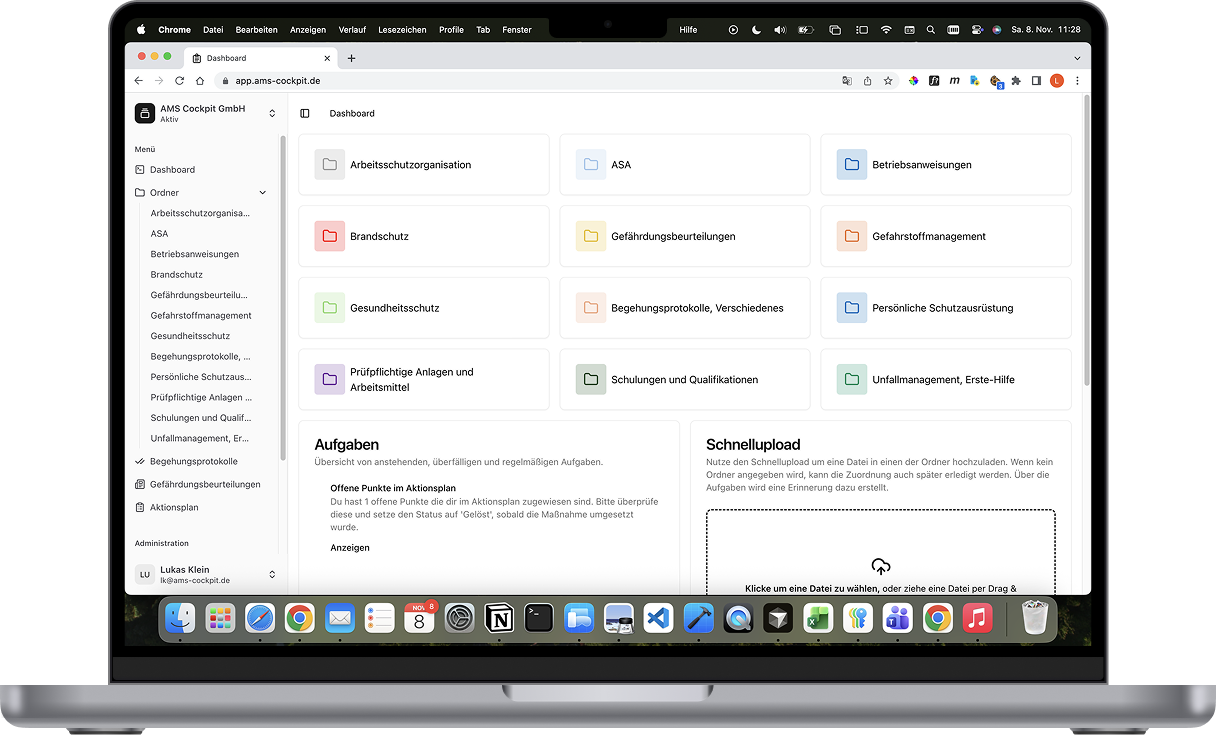
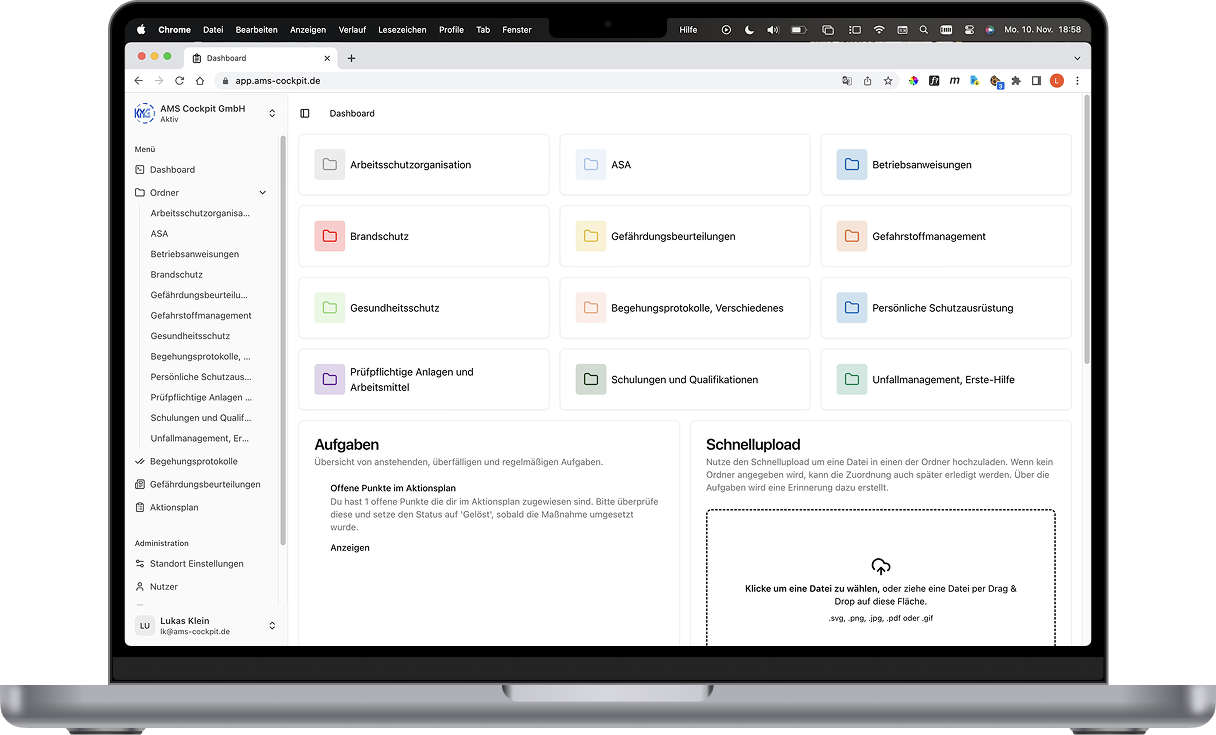
kimmi changes

diff --git a/components/footer.tsx b/components/footer.tsx
@@ -1,5 +1,6 @@
 "use client";
 import { useRouter } from "next/navigation";
+import Image from "next/image";
 import { Mail, Phone, MapPin } from "lucide-react";
 import { ContactForm } from "./contact-form";
 import { CalendlyWidget } from "./calendly-widget";
@@ -24,7 +25,7 @@ export function Footer() {
       <div className="absolute inset-0 bg-gradient-to-br from-emerald-900/20 via-slate-950 to-black" />
       <div className="absolute top-0 left-1/2 -z-10 h-[480px] w-[480px] -translate-x-1/2 rounded-full bg-emerald-500/10 blur-3xl" />
       <div className="absolute bottom-0 right-0 -z-10 h-96 w-96 translate-x-1/3 bg-emerald-400/5 blur-3xl" />
-      
+
       <div className="container mx-auto px-4 relative z-10">
         {/* Contact Section */}
         <div id="contact" className="mb-16">
@@ -55,14 +56,19 @@ export function Footer() {
           {/* Company Info */}
           <div>
             <div
-              className="border-2 border-emerald-200/40 bg-emerald-400/10 px-4 py-2 inline-block mb-6 cursor-pointer hover:bg-emerald-400/20 hover:border-emerald-200/60 transition-all duration-300 rounded-lg backdrop-blur-sm"
+              className="inline-block mb-6 cursor-pointer hover:opacity-80 transition-opacity duration-300"
               onClick={navigateToMainPage}
             >
-              <span className="text-xl font-bold tracking-wider text-white">AMS</span>
+              <Image
+                src="/logo.png"
+                alt="AMS Logo"
+                width={120}
+                height={40}
+                className="h-10 w-auto"
+              />
             </div>
             <p className="text-emerald-50/80 mb-6 leading-relaxed">
-              Die Software-Lösung für digitalen Arbeitsschutz und
-              Compliance-Management.
+              Die Software-Lösung für digitalen Arbeitsschutz
             </p>
           </div>
 
@@ -111,11 +117,15 @@ export function Footer() {
             <div className="space-y-4 text-emerald-50/80">
               <div className="flex items-center gap-3">
                 <Mail className="h-5 w-5 text-emerald-200/80" />
-                <span className="hover:text-emerald-200 transition-colors">info@ams-cockpit.de</span>
+                <span className="hover:text-emerald-200 transition-colors">
+                  info@ams-cockpit.de
+                </span>
               </div>
               <div className="flex items-center gap-3">
                 <Phone className="h-5 w-5 text-emerald-200/80" />
-                <span className="hover:text-emerald-200 transition-colors">+49 2359 2967311</span>
+                <span className="hover:text-emerald-200 transition-colors">
+                  +49 2359 2967311
+                </span>
               </div>
               <div className="flex items-center gap-3">
                 <MapPin className="h-5 w-5 text-emerald-200/80" />
@@ -133,7 +143,10 @@ export function Footer() {
         <div className="border-t border-white/10 pt-8 flex flex-col md:flex-row justify-between items-center text-emerald-50/60 text-sm">
           <p>&copy; 2025 AMS Cockpit GmbH. Alle Rechte vorbehalten.</p>
           <div className="flex space-x-6 mt-4 md:mt-0">
-            <a href="/impressum" className="hover:text-emerald-200 transition-colors">
+            <a
+              href="/impressum"
+              className="hover:text-emerald-200 transition-colors"
+            >
               Impressum
             </a>
             <a

diff --git a/components/hero-section.tsx b/components/hero-section.tsx
@@ -3,27 +3,20 @@
 import { useEffect, useRef, useState } from "react";
 import { Button } from "@/components/ui/button";
 import { Card, CardContent } from "@/components/ui/card";
-import {
-  ArrowRight,
-  Leaf,
-  ShieldCheck,
-  Smartphone,
-  Workflow,
-} from "lucide-react";
+import { ArrowRight, ShieldCheck, Smartphone, Workflow } from "lucide-react";
 import { AnimatePresence, motion, useReducedMotion } from "framer-motion";
 
 const featureCards = [
   {
-    title: "Mobile Inspektionen",
+    title: "Mobile Begehungen",
     description:
-      "Gefährdungsbeurteilungen direkt vor Ort durchführen und live synchronisieren.",
+      "Gefährdungsbeurteilungen mit dem Smartphone direkt vor Ort durchführen und live synchronisieren.",
     icon: Smartphone,
     accent: "On-Site",
   },
   {
-    title: "Nachhaltige Compliance",
-    description:
-      "Automatisierte Updates und rechtssichere Dokumentation ohne Medienbrüche.",
+    title: "Software-Compliance",
+    description: "Automatisierte Updates und Dokumentation ohne Medienbrüche.",
     icon: ShieldCheck,
     accent: "Compliance",
   },
@@ -184,10 +177,10 @@ export function HeroSection() {
             custom={2}
             className="max-w-xl text-base text-slate-100/90 md:text-lg"
           >
-            Wir verbinden smarte Softwaremodule mit pragmatischer Beratung,
-            damit Arbeitssicherheit in Produktion, Logistik und Verwaltung
-            lebendig bleibt. Von der mobilen Erfassung bis zur KI-gestützten
-            Auswertung entsteht ein vernetztes Sicherheitsökosystem.
+            Wir verbinden smarte Softwaremodule mit Praxiswissen, damit
+            Arbeitssicherheit in Produktion, Logistik und Verwaltung lebendig
+            bleibt. Von der mobilen Erfassung bis zur KI-gestützten Auswertung
+            entsteht ein vernetztes Arbeitssicherheits-System.
           </motion.p>
 
           <motion.div
@@ -206,17 +199,6 @@ export function HeroSection() {
             >
               Module entdecken
             </Button>
-          </motion.div>
-
-          <motion.div
-            variants={textReveal}
-            custom={4}
-            className="flex items-center gap-3 text-sm text-emerald-100/80"
-          >
-            <Leaf className="h-5 w-5" />
-            <span>
-              CO₂-sensible Infrastruktur und fairer Betrieb aus Deutschland
-            </span>
           </motion.div>
         </div>
 

diff --git a/components/ai-section.tsx b/components/ai-section.tsx
@@ -42,7 +42,7 @@ export function AISection() {
         "Intelligente Schutzmaßnahmen",
       ],
       example:
-        "Foto einer Lagersituation → KI erkennt Lithium-Batterie-Gefahren und schlägt spezifische Schutzmaßnahmen vor",
+        "Foto einer Lagersituation → KI erkennt einen zugestellten Feuerlöscher",
       accent: "Gefährdungsbeurteilungen",
     },
     {
@@ -56,7 +56,7 @@ export function AISection() {
         "Quellenangabe direkt im Dokument ohne langes Suchen",
       ],
       example:
-        "Fragen Sie einfach: 'Welche Schutzmaßnahmen sind für Lithium-Batterien erforderlich?' → Die KI durchsucht automatisch die relevanten Sicherheitsdatenblätter und gibt Ihnen die Antwort",
+        "Fragen Sie einfach: 'Welchen Schutzhandschuh muss ich beim Umgang mit dem Gefahrstoff tragen?' → Die KI antwortet",
       accent: "Gefahrstoffmanagement",
     },
   ];
@@ -112,9 +112,9 @@ export function AISection() {
             </h2>
           </div>
           <p className="mt-4 text-base text-slate-200/80 md:text-lg">
-            Nutzen Sie die Kraft künstlicher Intelligenz, um GBUs und Begehungen
-            effizienter und präziser durchzuführen. Unsere KI-Features
-            vereinfachen Ihre Arbeitsschutz-Prozesse erheblich.
+            Nutzen Sie künstlicher Intelligenz, um Gefährdungsbeurteilungen und
+            Begehungen effizienter und präziser durchzuführen. Unsere
+            KI-Features vereinfachen Ihre Arbeitsschutz-Prozesse erheblich.
           </p>
         </motion.div>
 
@@ -239,9 +239,10 @@ export function AISection() {
                 Revolutionieren Sie Ihren Arbeitsschutz mit KI
               </h3>
               <p className="text-emerald-50 mb-8 max-w-3xl mx-auto text-lg leading-relaxed">
-                Sparen Sie wertvolle Zeit bei der Durchführung von GBUs und
-                Begehungen. Unsere KI unterstützt Sie bei der Identifikation von
-                Risiken und schlägt automatisch passende Schutzmaßnahmen vor.
+                Sparen Sie wertvolle Zeit bei der Durchführung von
+                Gefährdungsbeurteilungen und Begehungen. Unsere KI unterstützt
+                Sie bei der Identifikation von Risiken und schlägt automatisch
+                passende Schutzmaßnahmen vor.
               </p>
               <AIFeaturesButton />
             </div>

diff --git a/components/solutions-section.tsx b/components/solutions-section.tsx
@@ -139,8 +139,9 @@ export function SolutionsSection() {
             Integration in bestehende Infrastruktur
           </h2>
           <p className="mt-4 text-base text-slate-200/80 md:text-lg">
-            AMS integriert sich nahtlos in Ihre bestehende IT-Infrastruktur und
-            bietet flexible Lösungen für größere Unternehmen.
+            Das AMS Cockpit integriert sich nahtlos in Ihre bestehende
+            IT-Infrastruktur und bietet flexible Lösungen für größere
+            Unternehmen.
           </p>
         </motion.div>
 
@@ -180,9 +181,15 @@ export function SolutionsSection() {
                     </div>
                   )}
 
-                  <CardHeader className={`flex gap-4 ${isLast ? "flex-row items-center" : "flex-col"}`}>
+                  <CardHeader
+                    className={`flex gap-4 ${
+                      isLast ? "flex-row items-center" : "flex-col"
+                    }`}
+                  >
                     <motion.div
-                      className={`flex h-12 w-12 items-center justify-center rounded-2xl border border-emerald-100/40 bg-emerald-400/30 ${isLast ? "shrink-0" : ""}`}
+                      className={`flex h-12 w-12 items-center justify-center rounded-2xl border border-emerald-100/40 bg-emerald-400/30 ${
+                        isLast ? "shrink-0" : ""
+                      }`}
                       animate={
                         shouldReduceMotion
                           ? undefined
@@ -206,7 +213,11 @@ export function SolutionsSection() {
                     </motion.div>
 
                     <div className="flex flex-col gap-2 flex-1">
-                      <CardTitle className={`font-semibold text-white ${isLast ? "text-2xl md:text-3xl" : "text-xl"}`}>
+                      <CardTitle
+                        className={`font-semibold text-white ${
+                          isLast ? "text-2xl md:text-3xl" : "text-xl"
+                        }`}
+                      >
                         {integration.title}
                       </CardTitle>
                       {isLast && (

diff --git a/components/header.tsx b/components/header.tsx
@@ -2,6 +2,7 @@
 
 import { useEffect, useState } from "react";
 import { useRouter } from "next/navigation";
+import Image from "next/image";
 import { Button } from "@/components/ui/button";
 import { Menu, X, Globe } from "lucide-react";
 import {
@@ -98,31 +99,15 @@ export function Header() {
           <div className="relative flex items-center gap-3">
             <button
               onClick={navigateToMainPage}
-              className="group relative flex items-center gap-3 rounded-xl border border-white/15 bg-white/10 px-4 py-2 font-semibold uppercase tracking-[0.28em] text-white transition hover:bg-white/20"
+              className="group relative flex items-center transition hover:opacity-80"
             >
-              <span className="text-sm">AMS</span>
-              <span className="hidden text-xs text-emerald-200/80 sm:inline">
-                Cockpit
-              </span>
-              <motion.span
-                aria-hidden="true"
-                className="absolute inset-0 rounded-xl border border-white/25 opacity-0 transition group-hover:opacity-100"
-                animate={
-                  shouldReduceMotion
-                    ? undefined
-                    : {
-                        rotate: [0, 0.8, -0.8, 0],
-                      }
-                }
-                transition={
-                  shouldReduceMotion
-                    ? undefined
-                    : {
-                        repeat: Infinity,
-                        repeatType: "mirror",
-                        duration: 6,
-                      }
-                }
+              <Image
+                src="/logo.png"
+                alt="AMS Logo"
+                width={120}
+                height={40}
+                className="h-10 w-auto"
+                priority
               />
             </button>
           </div>

diff --git a/components/features-section.tsx b/components/features-section.tsx
@@ -36,12 +36,12 @@ const features = [
     icon: FileText,
     title: "Aktionsplan",
     description:
-      "Teamübergreifende Aktionspläne mit Prioritäten, Deadlines und Live-Status für alle Beteiligten.",
+      "Teamübergreifende Aktionspläne mit Prioritäten, Deadlines und Verantwortlichkeiten für alle Beteiligten.",
     accent: "Koordination",
   },
   {
     icon: BarChart3,
-    title: "Reporting & Analytics",
+    title: "Statistik und Kennzahlen",
     description:
       "Dashboards und Trendanalysen, die Fortschritt, Risiken und Compliance auf einen Blick sichtbar machen.",
     accent: "Insights",
@@ -51,15 +51,15 @@ const features = [
     title: "Gefahrstoffmanagement",
     description:
       "Gefahrstoffe revisionssicher verwalten, Sicherheitsdatenblätter synchronisieren und Freigaben steuern.",
-    accent: "Labor",
+    accent: "Dokumentation",
     comingSoon: true,
   },
   {
     icon: AlertTriangle,
     title: "Unfall Management",
     description:
-      "Unfälle und Beinahe-Vorfälle minutenschnell erfassen, analysieren und mit Präventionsmaßnahmen verknüpfen.",
-    accent: "Safety",
+      "Arbeitsunfälle und Beinahe-Vorfälle minutenschnell erfassen, analysieren und mit Präventionsmaßnahmen verknüpfen.",
+    accent: "Prävention",
     comingSoon: true,
   },
 ];
@@ -112,7 +112,7 @@ export function ModuleSection() {
             Module
           </span>
           <h2 className="mt-6 text-3xl font-semibold leading-tight md:text-4xl">
-            Das modulare Sicherheitsökosystem für Ihre Branche
+            Die modulare Arbeitssicherheits-Struktur für Ihre Branche
           </h2>
           <p className="mt-4 text-base text-slate-200/80 md:text-lg">
             Jedes Modul lässt sich flexibel kombinieren, sodass Sie genau den

diff --git a/components/preview-app-section.tsx b/components/preview-app-section.tsx
@@ -121,16 +121,15 @@ export function PreviewAppSection() {
             variants={itemVariants}
             className="text-3xl font-semibold leading-tight md:text-4xl"
           >
-            Eine App, die Arbeitssicherheit erlebbar macht
+            Eine App, die Arbeitssicherheit einfach und digital macht
           </motion.h2>
 
           <motion.p
             variants={itemVariants}
             className="max-w-xl text-base text-slate-200/85 md:text-lg"
           >
-            Dashboards, Checklisten und KI-Support an einem Ort. Mit der AMS
-            Industrie App steuern Sie Prüfungen, Kommunikation und Dokumente
-            unterwegs, online wie offline.
+            Gefährdungsbeurteilungen, Begehungsprotokolle und Aktionspläne mit
+            dem Smartphone erfassen und synchronisieren.
           </motion.p>
 
           <motion.div variants={itemVariants} className="space-y-6">

diff --git a/components/preview-web-section.tsx b/components/preview-web-section.tsx
@@ -22,11 +22,11 @@ const featureItems = [
     badge: "Organisation",
   },
   {
-    title: "Team-Kollaboration & Verwaltung",
+    title: "Zusammenarbeit & Verwaltung",
     description:
       "Nutzer verwalten, Abteilungen organisieren und Aufgaben im Aktionsplan teamübergreifend koordinieren.",
     icon: Users,
-    badge: "Kollaboration",
+    badge: "Zusammenarbeit",
   },
 ];
 

diff --git a/app/layout.tsx b/app/layout.tsx
@@ -15,6 +15,10 @@ const geistMono = Geist_Mono({
 export const metadata: Metadata = {
   title: "AMS",
   description: "Arbeitssicherheit",
+  icons: {
+    icon: "/logo.png",
+    apple: "/logo.png",
+  },
 };
 
 export default function RootLayout({
